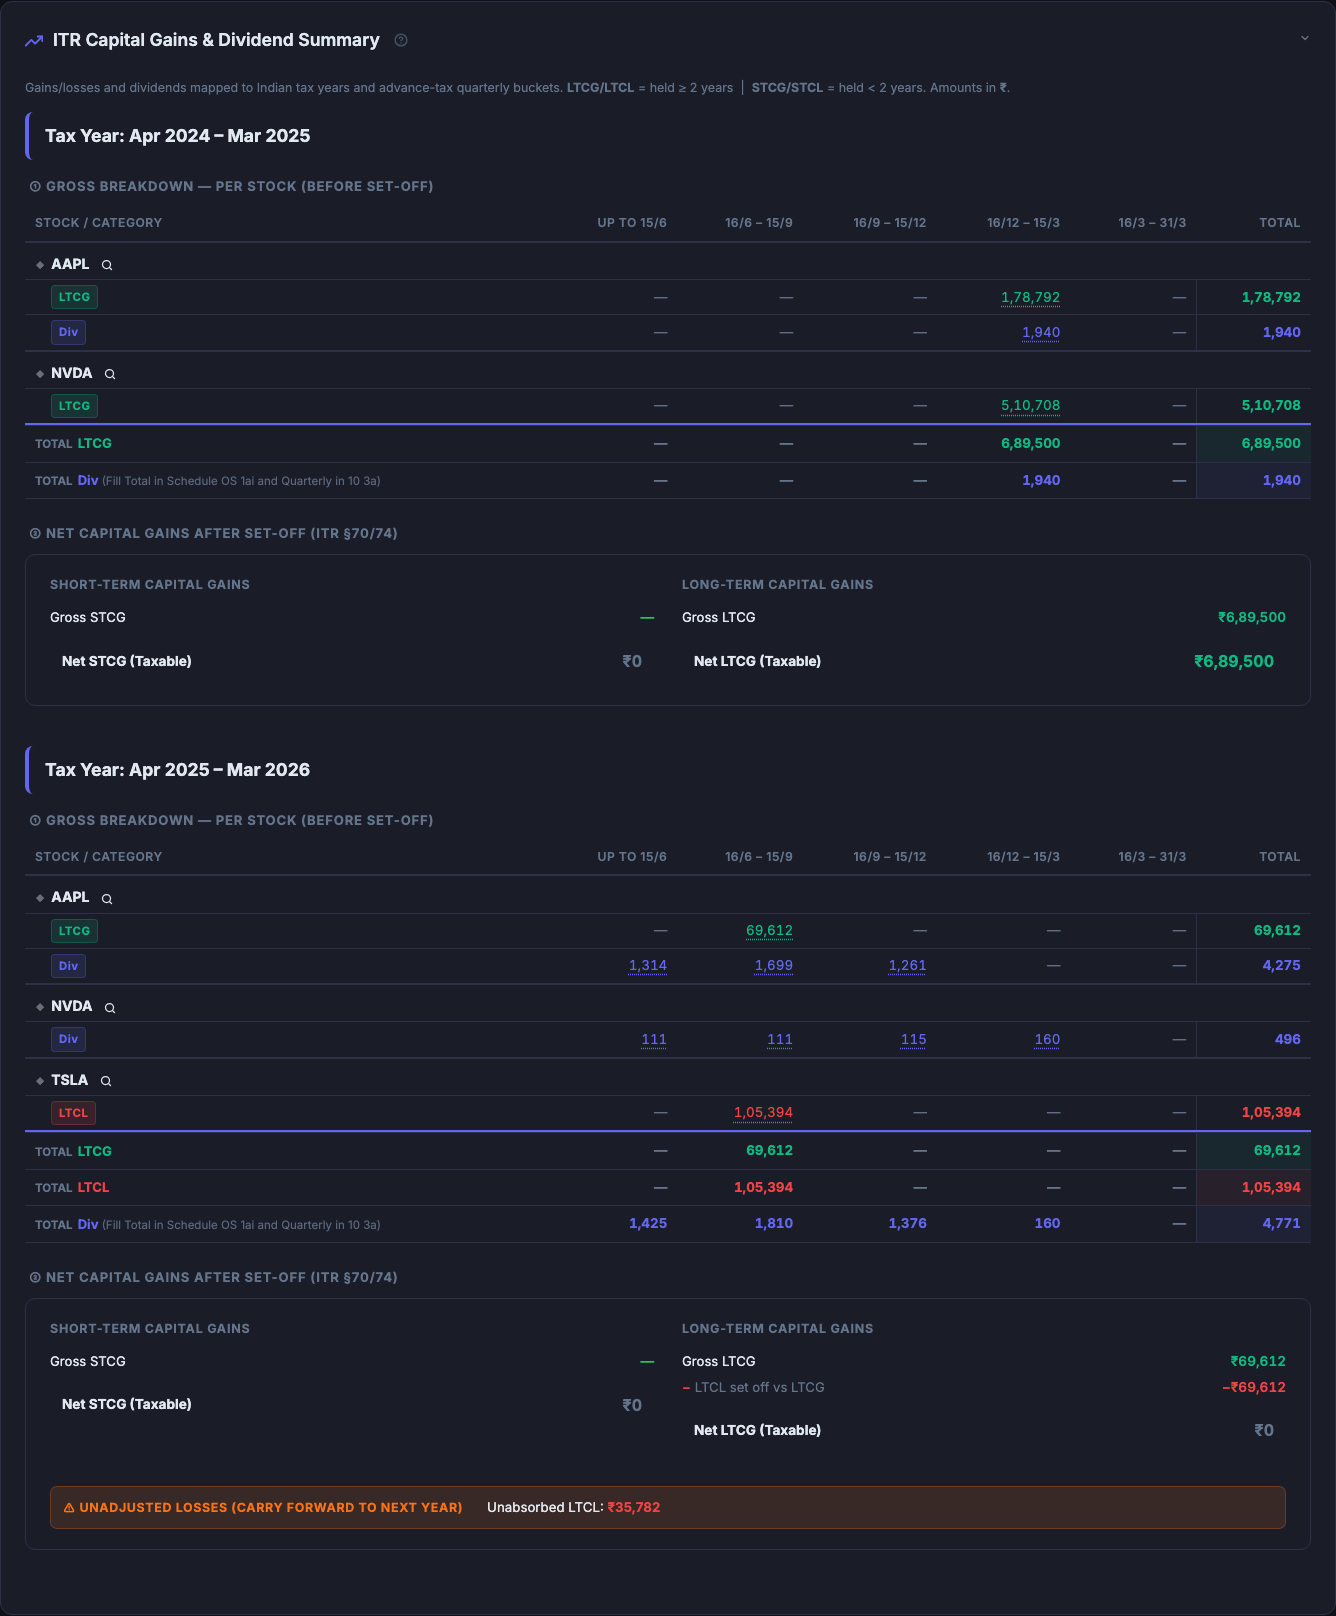
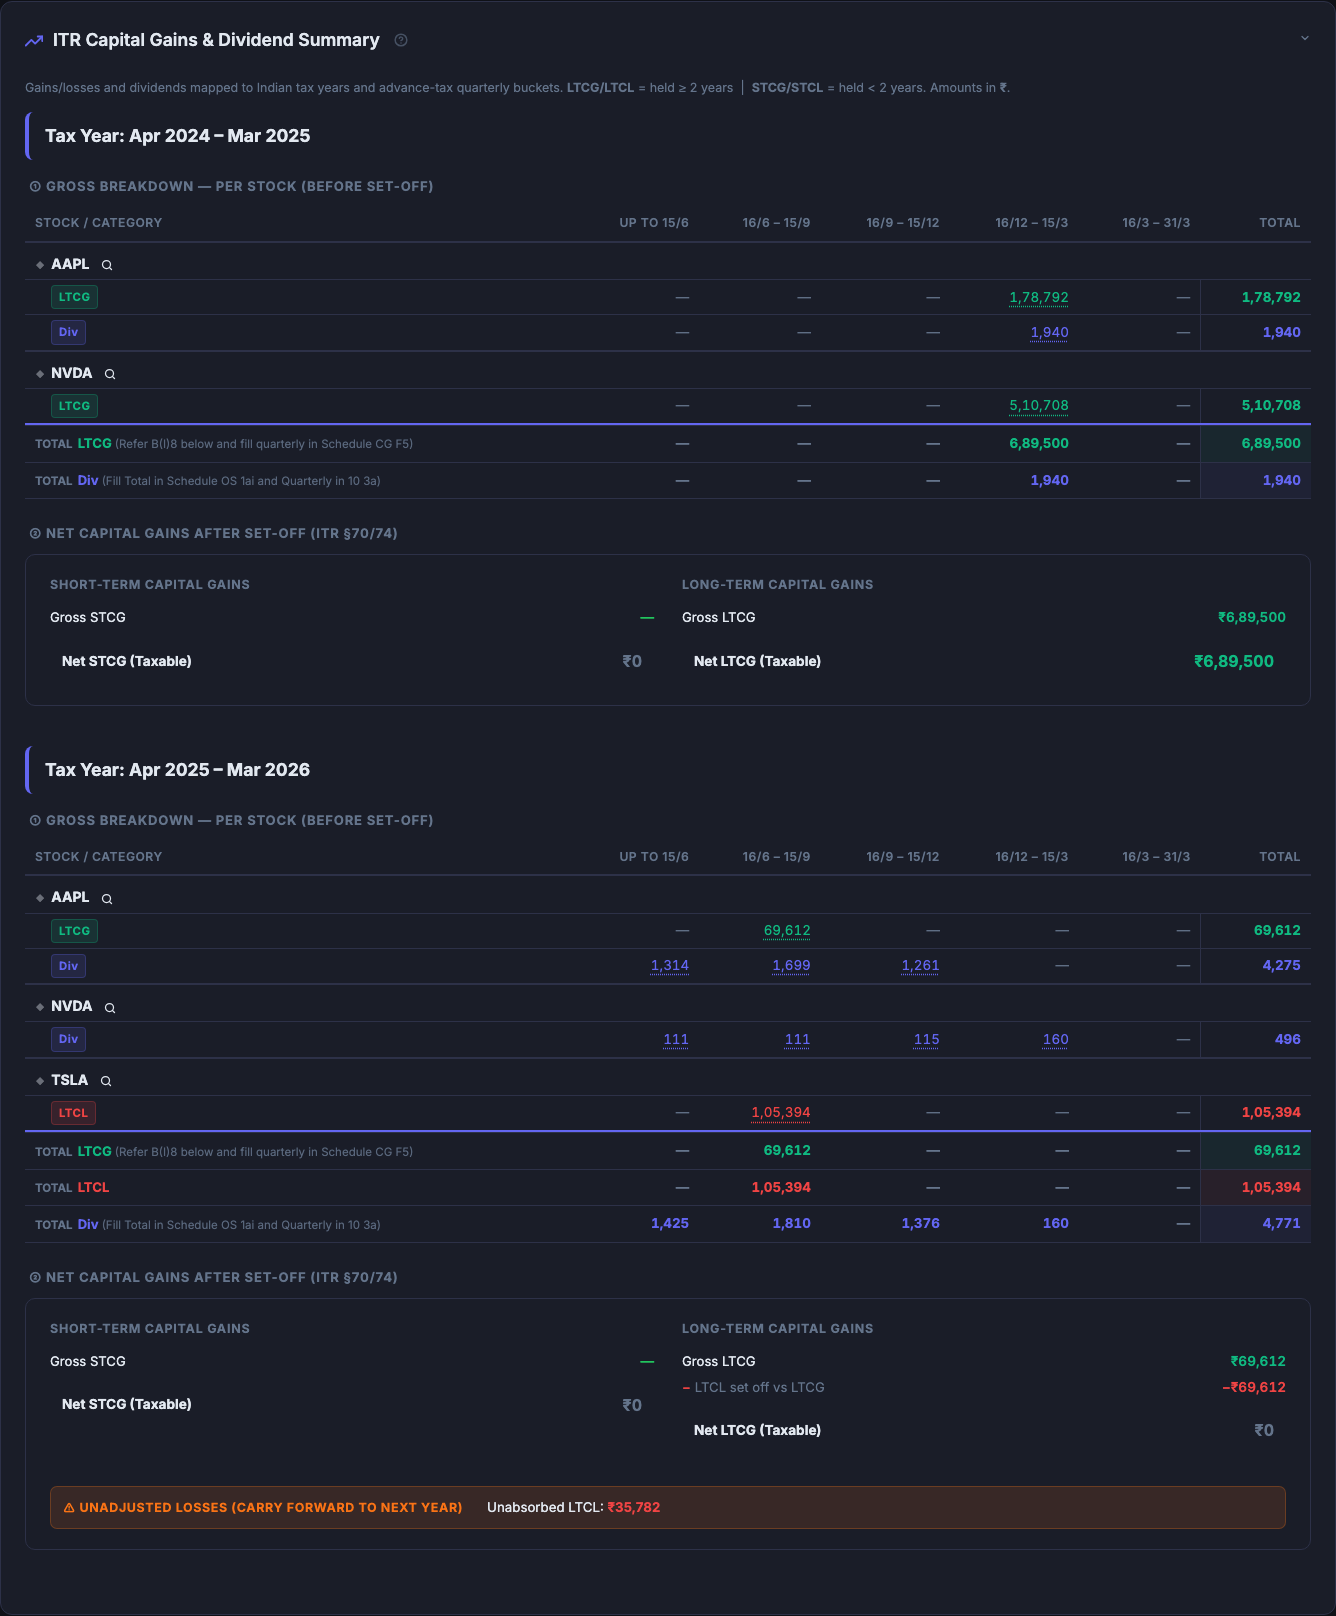
Fix label and number alignment in ITR Schedule CG summary rows

diff --git a/static/js/modules/components/resultsTable.js b/static/js/modules/components/resultsTable.js
@@ -1886,10 +1886,10 @@ export function renderConsolidatedTaxSummary(data) {
 
         rowsData.forEach(r => {
             const row = document.createElement("div");
-            row.style.cssText = `display:flex;justify-content:space-between;align-items:center;padding:${r.bold ? '10px 12px' : '4px 0'};${r.bold ? 'border-radius:7px;background:' + (balanceVal >= 0 ? 'var(--success)' : 'var(--danger)') + '18;border:1px solid ' + (balanceVal >= 0 ? 'var(--success)' : 'var(--danger)') + '44;margin-top:6px;' : ''}`;
+            row.style.cssText = `display:flex;justify-content:space-between;align-items:center;padding:${r.bold ? '10px 12px' : '4px 12px'};${r.bold ? 'border-radius:7px;background:' + (balanceVal >= 0 ? 'var(--success)' : 'var(--danger)') + '18;border:1px solid ' + (balanceVal >= 0 ? 'var(--success)' : 'var(--danger)') + '44;margin-top:6px;' : ''}`;
             const lbl = document.createElement("span");
             lbl.style.cssText = `font-size:0.84rem;color:${r.bold ? 'var(--text-main)' : 'var(--text-muted)'};font-weight:${r.bold ? '700' : '500'};`;
-            lbl.innerHTML = `<span style="font-weight:700;color:var(--accent);margin-right:8px;font-size:0.72rem;opacity:0.7;">${r.code}</span>${r.label}${r.sublabel ? ` <span style="opacity:0.5;font-size:0.75rem;">${r.sublabel}</span>` : ''}`;
+            lbl.innerHTML = `<span style="display:inline-block;width:45px;font-weight:700;color:var(--accent);margin-right:8px;font-size:0.72rem;opacity:0.7;">${r.code}</span>${r.label}${r.sublabel ? ` <span style="opacity:0.5;font-size:0.75rem;">${r.sublabel}</span>` : ''}`;
             const valWrap = document.createElement("span");
             valWrap.style.cssText = "display:flex;align-items:center;gap:0;";
             const val = document.createElement("span");
